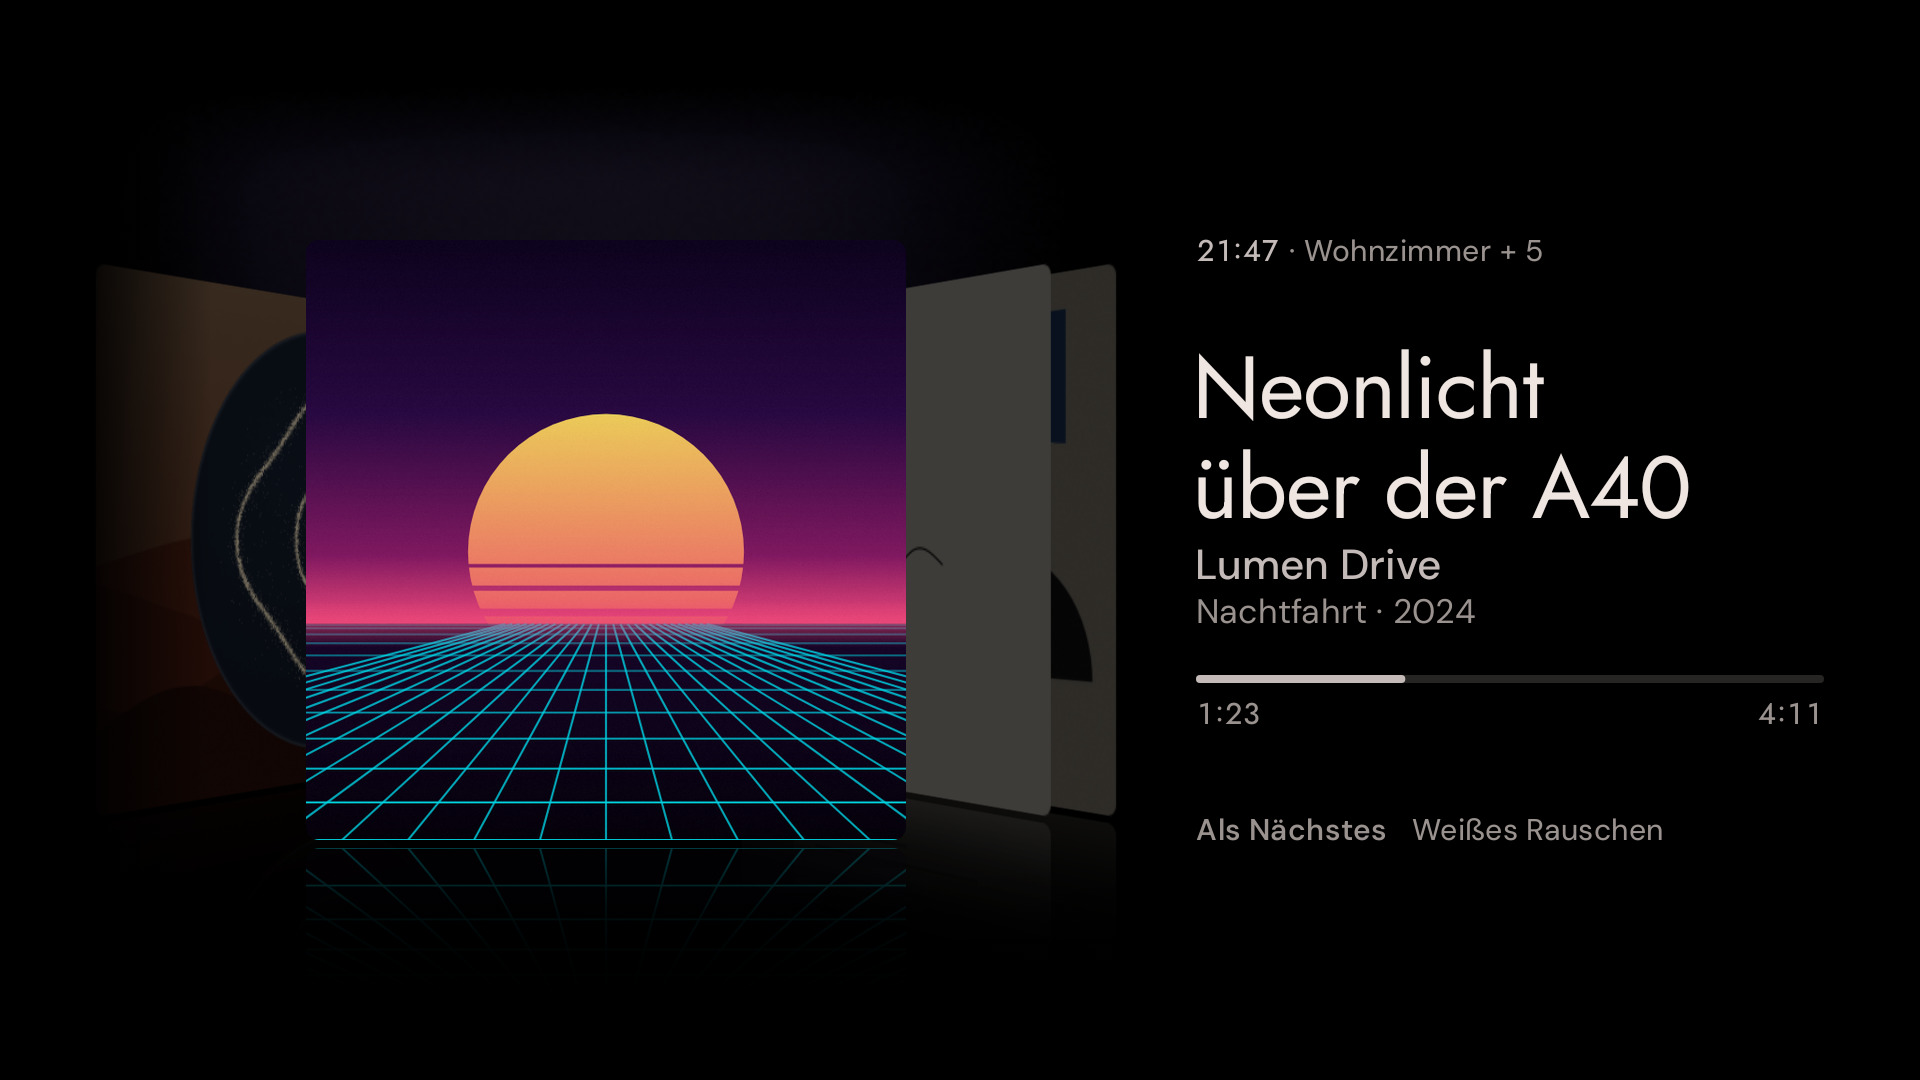
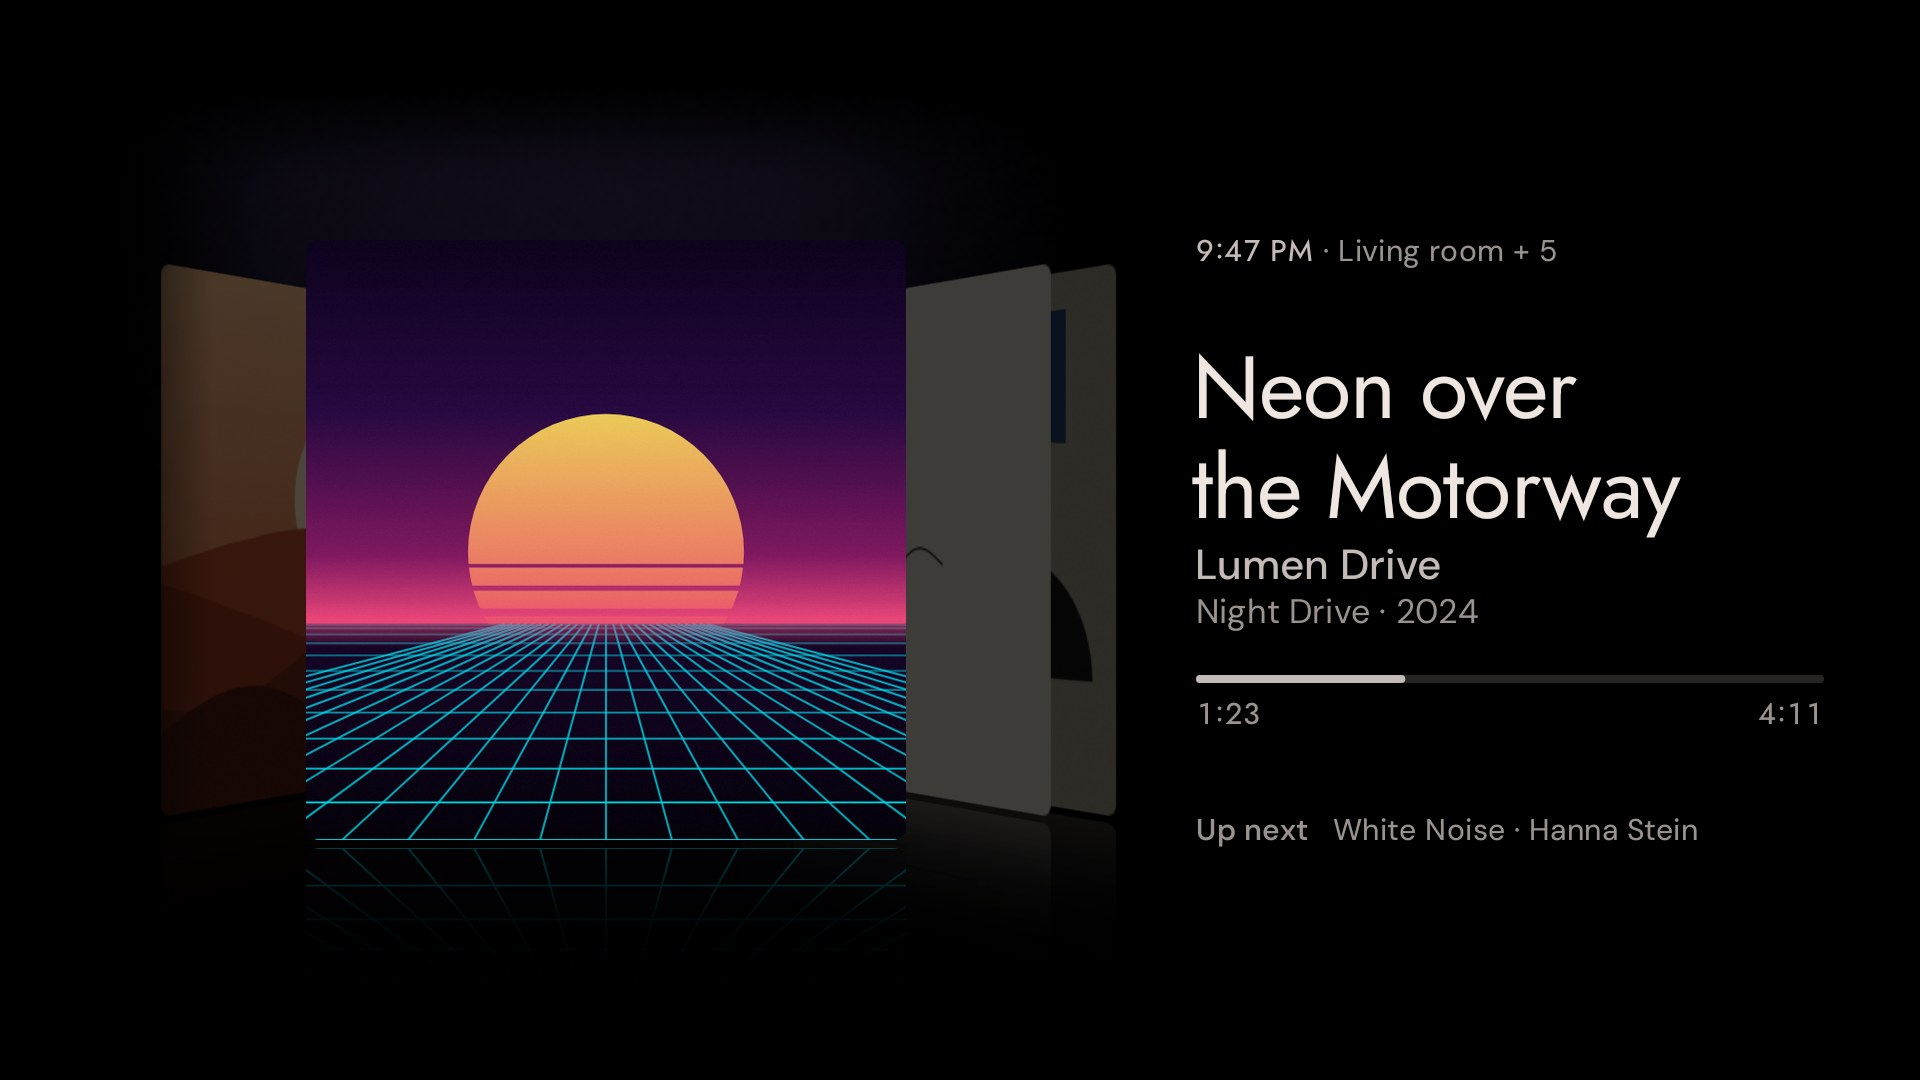
README in English with English screenshots
Claude-Session: https://claude.ai/code/session_01P66sJSHVZtiuf8Yy8iCjVw

diff --git a/README.md b/README.md
@@ -1,17 +1,18 @@
 # Klangbild
 
-Klangbild is a now-playing screen for Home Assistant and Music Assistant on Android TV: the cover large, the type set with care.
+Klangbild is a now playing screen for Home Assistant and Music Assistant on Android TV.
 
-- Backdrop and Hue lights in the cover's colours
+- The cover large, in English or German
 - Cover Flow through the queue
-- Fensterblick: a paper diorama in the light and weather outside
+- A paper landscape in the light and weather outside
+- Lights behind the TV in the cover's colors
 - Audiobooks and podcasts with chapters
-- Made for OLED, set up from the phone
+- Set up and signed in from your phone
 
-German interface. APK under [Releases](https://github.com/hazymorning/Klangbild/releases/latest).
+Get the APK from [Releases](https://github.com/hazymorning/Klangbild/releases/latest).
 
 ![Now playing](docs/screenshots/now-playing.jpg)
 
 ![Cover Flow](docs/screenshots/cover-flow.jpg)
 
-![Fensterblick](docs/screenshots/fensterblick.jpg)
+![Window view](docs/screenshots/window-view.jpg)
